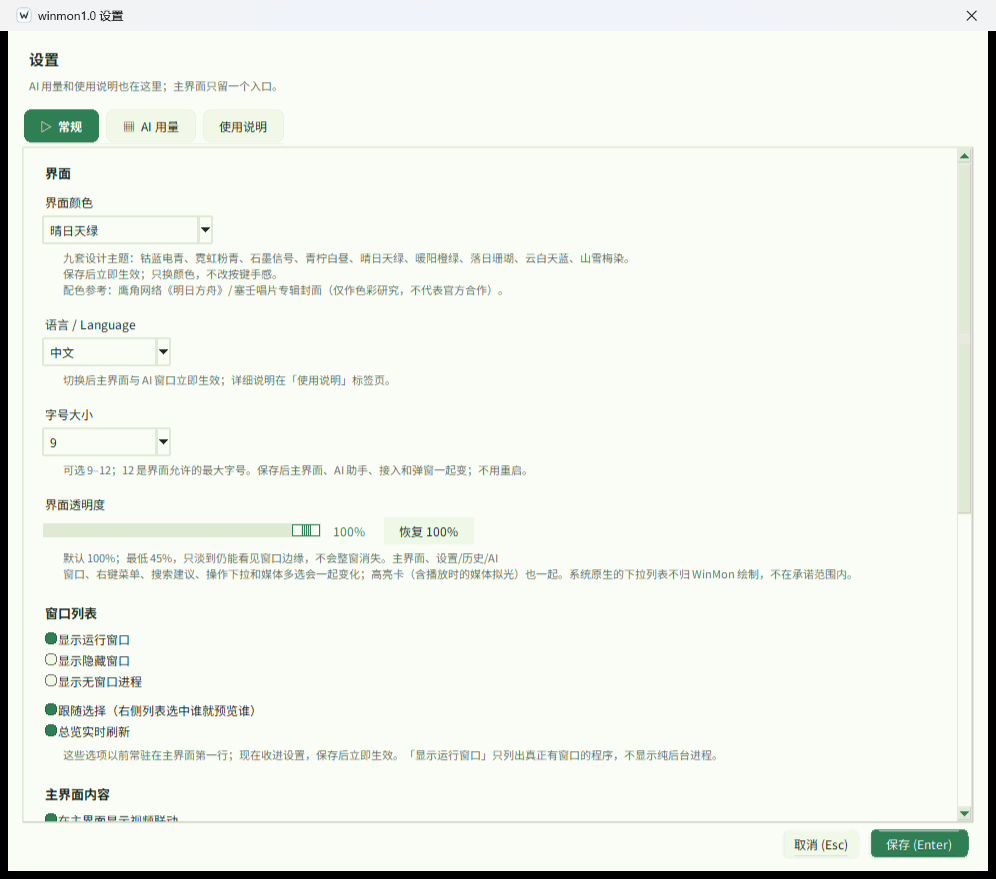
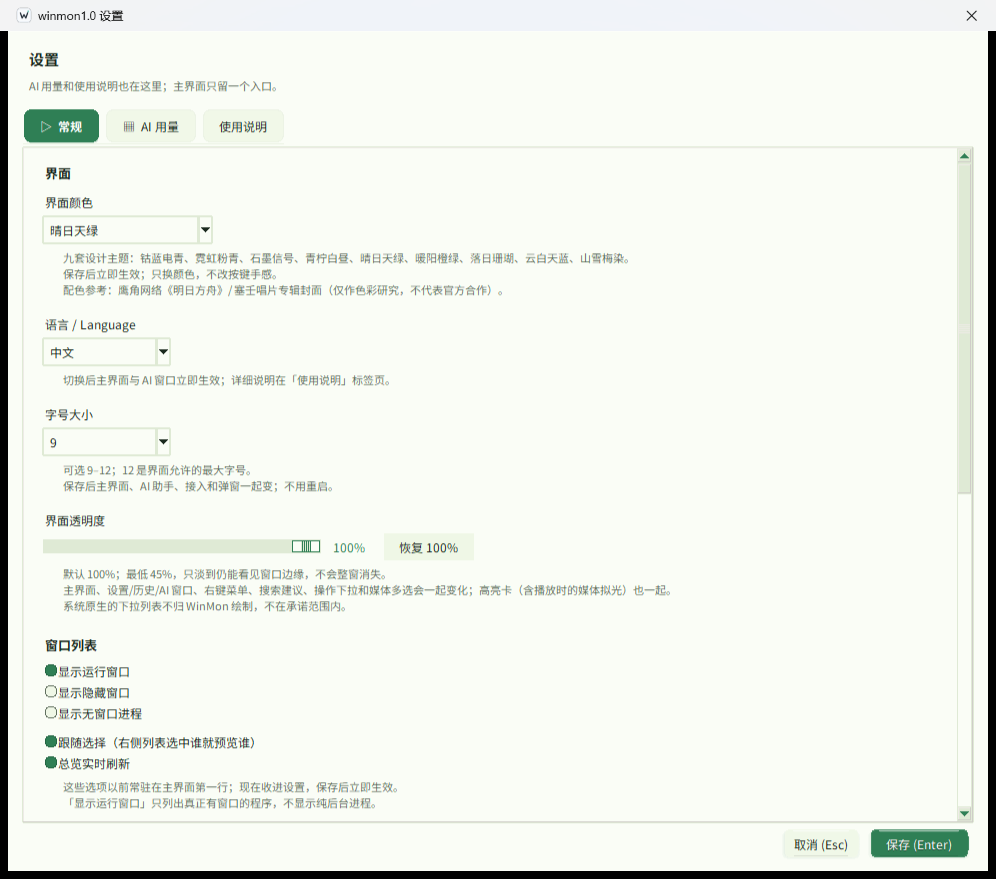
polish：设置小字按句断行，更新截图

Changed region(s): [[0.0311, 0.5222, 0.8715, 0.9522], [0.498, 0.8294, 0.7159, 0.8908], [0.9649, 0.5529, 0.996, 0.5836]]

diff --git a/winmon.py b/winmon.py
@@ -5076,11 +5076,10 @@ class _SettingsWindow:
             font=UI_FONT, values=list(self._font_by_label.keys())).pack(
             anchor="w", pady=(2, 0))
         self._hint(wrap, i18n.pick(
-            "可选 9–12；12 是界面允许的最大字号。保存后主界面、AI 助手、"
-            "接入和弹窗一起变；不用重启。",
-            "9–12; 12 is the largest size the layout supports. Applies "
-            "to the main window, AI windows, and dialogs immediately; "
-            "no restart."))
+            "可选 9–12；12 是界面允许的最大字号。\n"
+            "保存后主界面、AI 助手、接入和弹窗一起变；不用重启。",
+            "9–12; 12 is the largest size the layout supports.\n"
+            "Applies to the main window, AI windows, and dialogs immediately."))
 
         tk.Label(wrap, text=i18n.pick("界面透明度", "Window opacity"),
                  font=UI_FONT, bg=UI_BG, fg=UI_INK,
@@ -5101,16 +5100,16 @@ class _SettingsWindow:
                    command=lambda: self._set_opacity_value(UI_OPACITY_MAX)
                    ).pack(side="left")
         self._hint(wrap, i18n.pick(
-            "默认 100%；最低 45%，只淡到仍能看见窗口边缘，不会整窗消失。"
+            "默认 100%；最低 45%，只淡到仍能看见窗口边缘，不会整窗消失。\n"
             "主界面、设置/历史/AI 窗口、右键菜单、搜索建议、操作下拉和"
-            "媒体多选会一起变化；高亮卡（含播放时的媒体拟光）也一起。"
+            "媒体多选会一起变化；高亮卡（含播放时的媒体拟光）也一起。\n"
             "系统原生的下拉列表不归 WinMon 绘制，不在承诺范围内。",
             "Default 100%; the minimum is 45%, where the window edge is "
-            "still visible and the app cannot vanish. The main window, "
-            "settings/history/AI windows, context menus, search results, "
-            "action popups, and media picker all follow it — including "
-            "highlight cards and the media glow. Native system dropdowns "
-            "are not owned by WinMon and are not covered."))
+            "still visible.\n"
+            "The main window, settings/history/AI windows, context menus, "
+            "search results, action popups, and media picker all follow it — "
+            "including highlight cards and the media glow.\n"
+            "Native system dropdowns are not owned by WinMon and are not covered."))
 
     def _build_window_list_section(self, wrap, prefs: dict) -> None:
         """窗口列表：原先挤在主界面顶部的过滤/跟随选项。"""
@@ -5138,11 +5137,10 @@ class _SettingsWindow:
         ttk.Checkbutton(wrap, text="总览实时刷新",
                         variable=self.live_gallery).pack(anchor="w", fill="x")
         self._hint(wrap, i18n.pick(
-            "这些选项以前常驻在主界面第一行；现在收进设置，保存后立即生效。"
+            "这些选项以前常驻在主界面第一行；现在收进设置，保存后立即生效。\n"
             "「显示运行窗口」只列出真正有窗口的程序，不显示纯后台进程。",
-            "These used to sit above the main list. They now live here and "
-            "apply immediately on save. “Show running windows” hides "
-            "background processes that have no window."))
+            "These used to sit above the main list; they apply immediately on save.\n"
+            "“Show running windows” hides background processes that have no window."))
 
     def _build_content_section(self, wrap, prefs: dict) -> None:
         """主界面内容：视频联动整行 + 闲置提醒。"""
@@ -5154,9 +5152,10 @@ class _SettingsWindow:
             anchor="w", fill="x", pady=(2, 0))
         self._hint(wrap, i18n.pick(
             "默认不显示；打开后主界面才会出现「监视当前窗口 / 停止监视 / "
-            "直接关闭视频」这一行。关闭时媒体行仍保留。",
-            "Off by default. When on, the video-link row appears above the "
-            "media card; the media card itself always stays."))
+            "直接关闭视频」这一行。\n"
+            "关闭时媒体行仍保留。",
+            "Off by default. When on, the video-link row appears above the media card.\n"
+            "The media card itself always stays."))
 
         self.idle_alert = tk.BooleanVar(
             value=bool(prefs.get("idle_alert", False)))
@@ -5240,7 +5239,7 @@ class _SettingsWindow:
         tk.Label(row, text="天", font=UI_FONT, bg=UI_BG, fg=UI_INK,
                  anchor="w").pack(side="left", padx=(4, 0))
         self._hint(wrap, f"启动时自动删掉超过这个天数的记录（默认 "
-                         f"{HISTORY_DAYS_DEFAULT} 天）。"
+                         f"{HISTORY_DAYS_DEFAULT} 天）。\n"
                          f"清理前会把原文件另存一份 .bak，删错了还能找回来。")
 
         tools = tk.Frame(wrap, bg=UI_BG)
